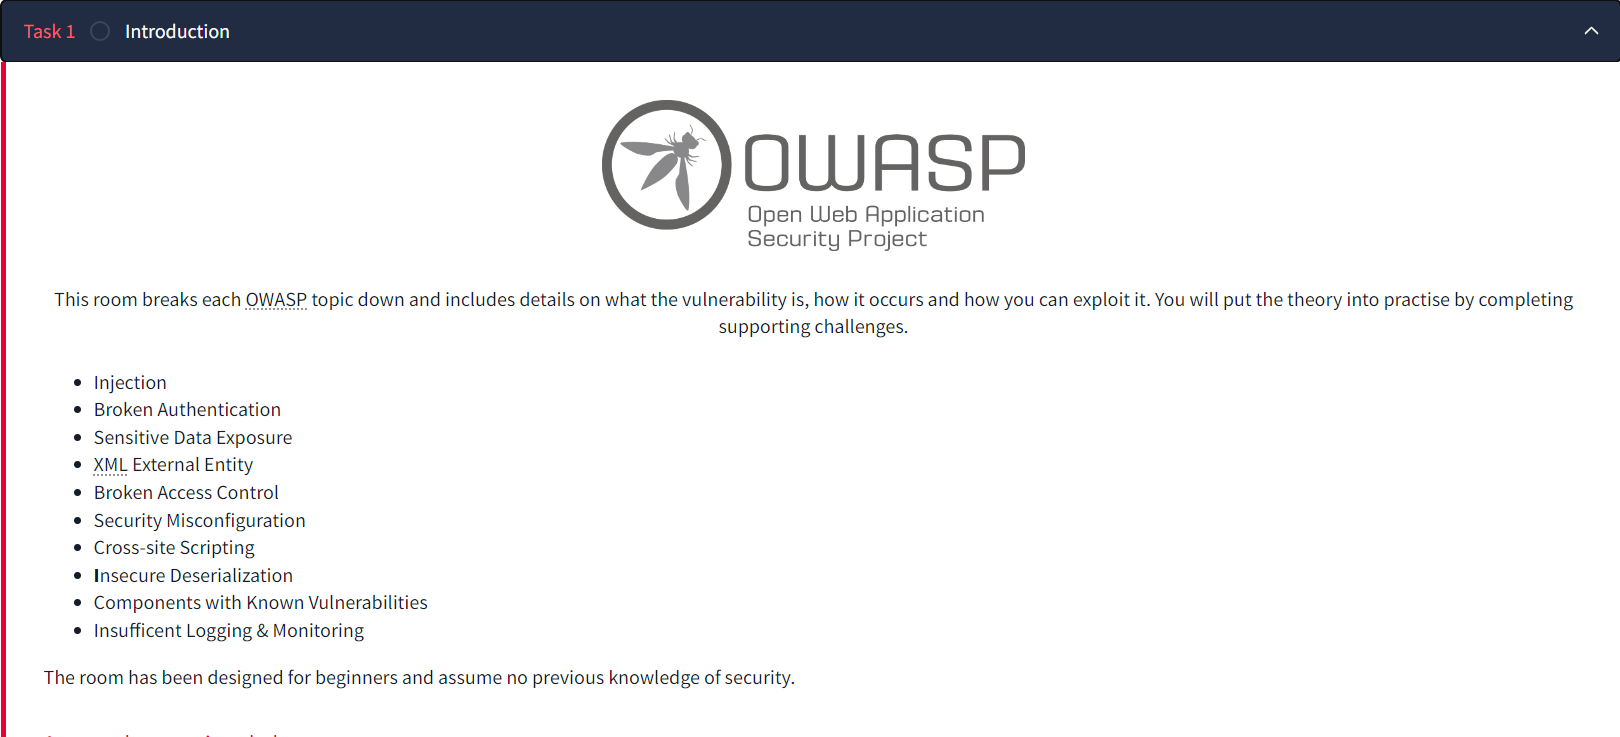
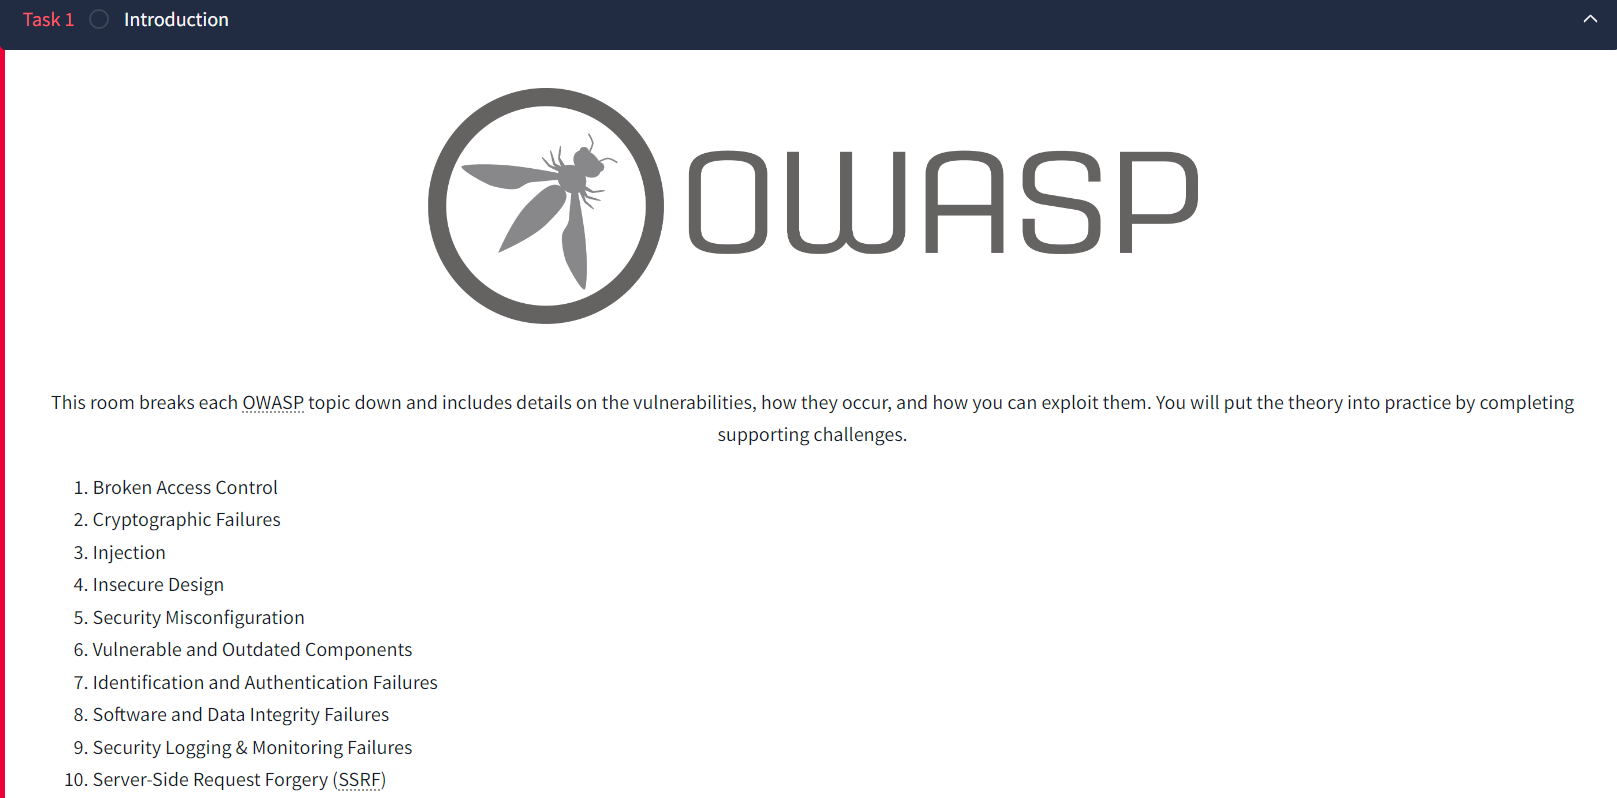
changed img1 and updated OWASP top 10

Changed region(s): [[0.0, 0.0, 1.0, 0.4681], [0.0309, 0.4993, 0.9895, 1.0]]

diff --git a/OWASP Top 10.md b/OWASP Top 10.md
@@ -1,9 +1,9 @@
-# Owasp top 10 (2017)
+# Owasp top 10 (2021)
 
-**Date**: 26, August, 2024  
+**Date**: 28, August, 2024  
 **Author**: P.Hima Bindu  
 
-[Click Here](https://tryhackme.com/r/room/owasptop10) to go to the TryHackMe room.
+[Click Here](https://tryhackme.com/r/room/owasptop102021) to go to the TryHackMe room.
 
 ![Description](./Images/img1.png)
 
